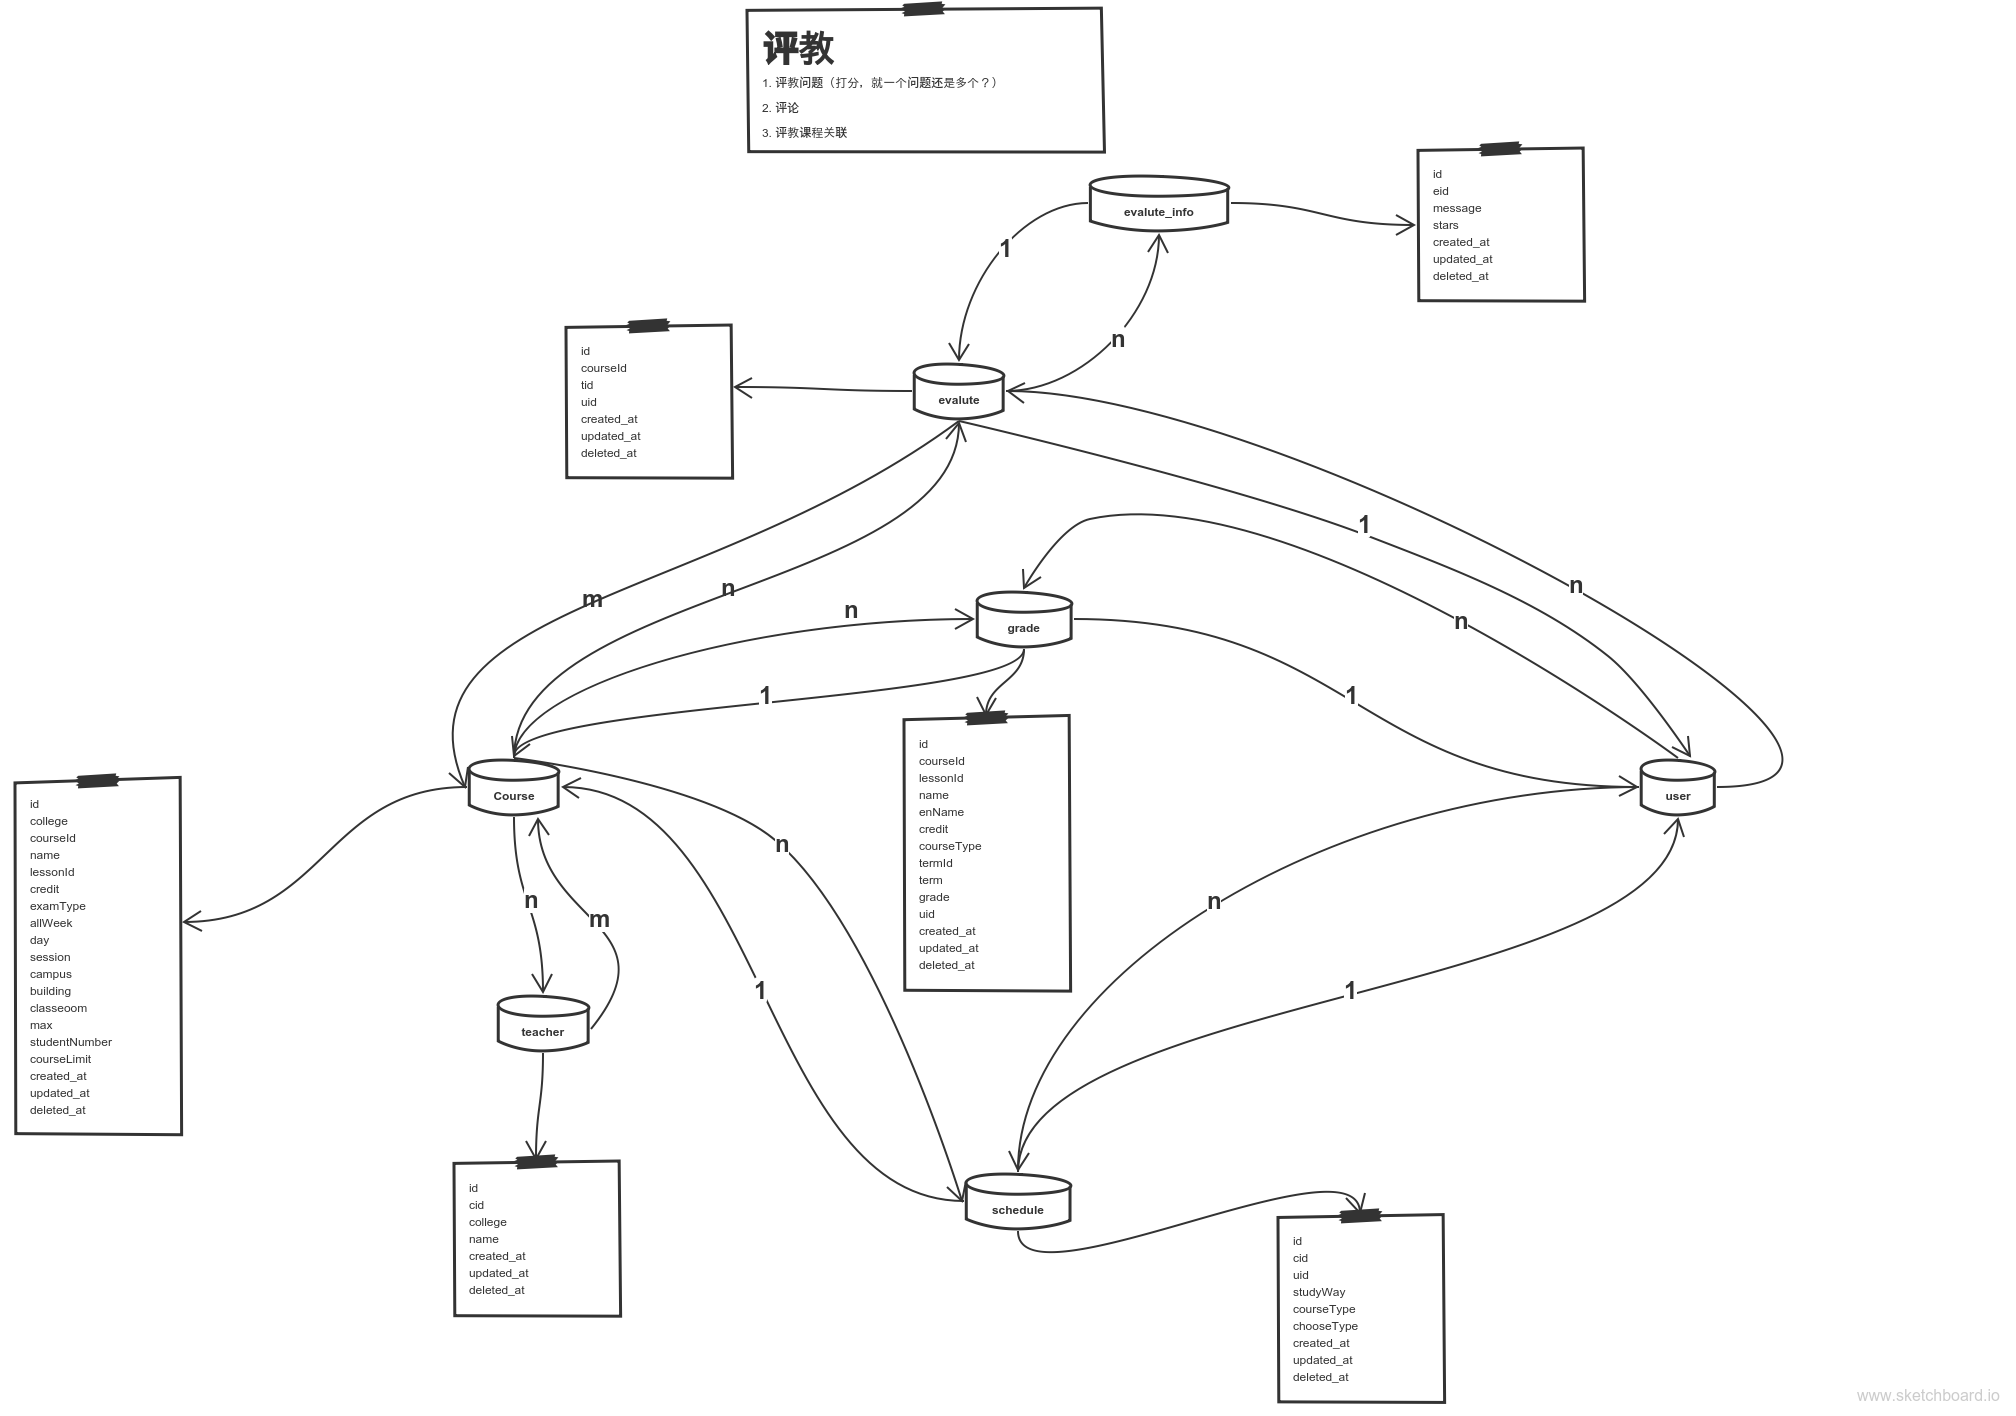
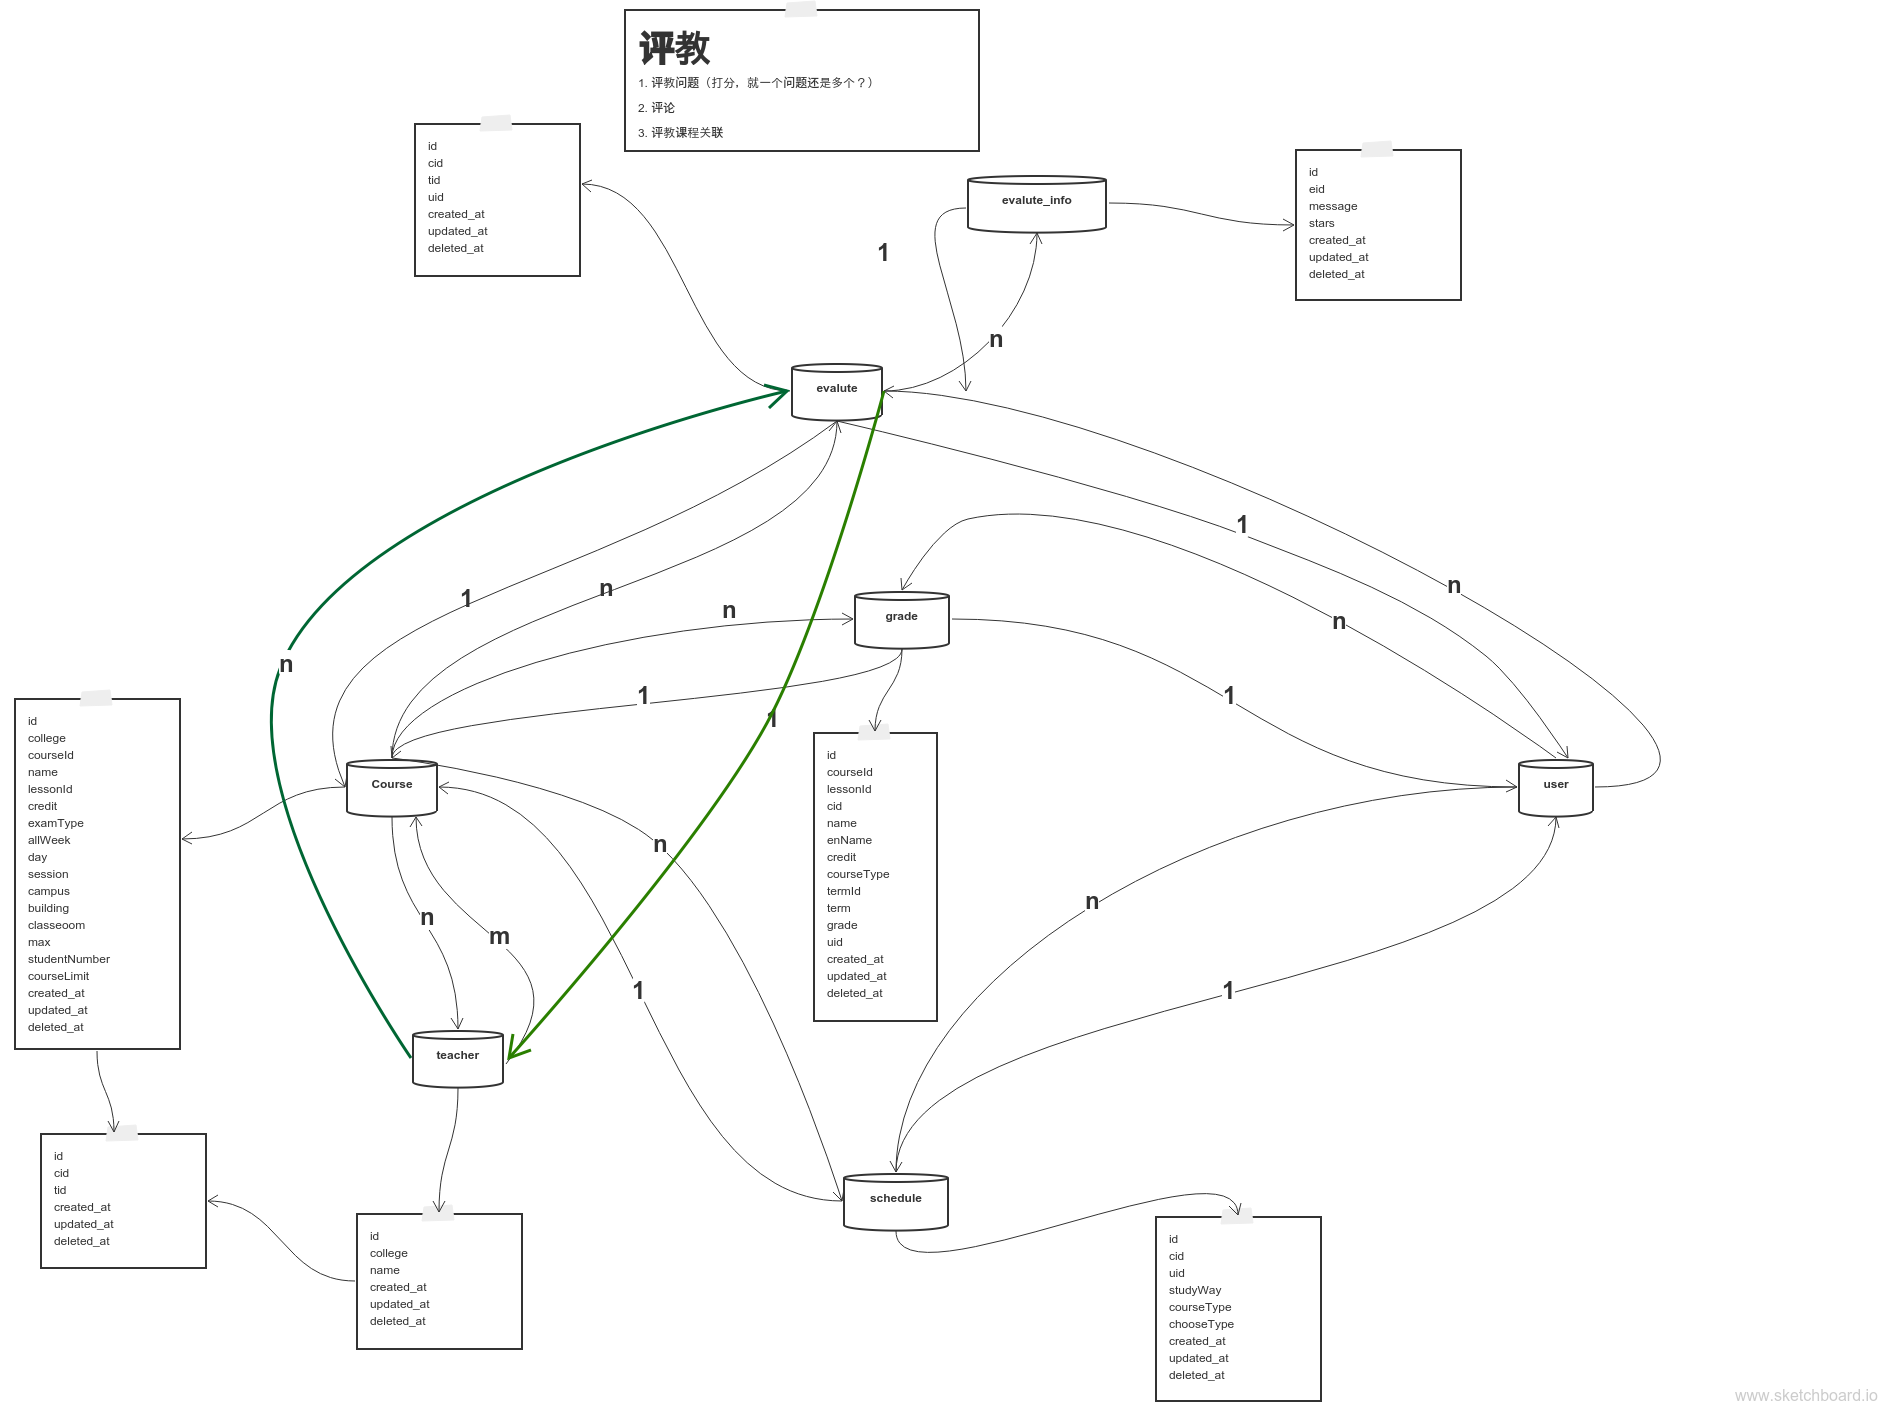
【新增】后台抓取课程、教师数据

diff --git a/app/Jobs/CourseJob.php b/app/Jobs/CourseJob.php
@@ -1,0 +1,85 @@
+<?php
+
+namespace App\Jobs;
+
+use App\Model\Course;
+use App\Model\CourseTeacher;
+use App\Model\Teacher;
+use Illuminate\Support\Facades\Cache;
+use Illuminate\Support\Facades\Log;
+use Mohuishou\Lib\ScuplusJwc;
+
+class CourseJob extends Job
+{
+
+    protected $_sid;
+    protected $_spassword;
+
+    /**
+     * CourseJob constructor.
+     * @param $course_obj 抓取课程信息的对象
+     */
+    public function __construct($sid,$spassword)
+    {
+        $this->_sid=$sid;
+        $this->_spassword=$spassword;
+    }
+
+    /**
+     * Execute the job.
+     *
+     * @return void
+     */
+    public function handle()
+    {
+        $page=Cache::pull('course_page');
+        $page || $page=0;
+        $course_obj=ScuplusJwc::create('Course',$this->_sid,$this->_spassword);
+        while (1){
+            //把当前的页码缓存，防止队列任务挂掉从头开始
+            Cache::put('course_page',$page,60*5);
+            try{
+                $data=$course_obj->getCourse([],$page,50);
+            }catch (\Exception $e){
+                Log::debug($e->getMessage());
+            }
+
+            // 当没有数据以后，退出抓取,并且清除缓存
+            if(!$data){
+                Cache::forget('course_page');
+                break;
+            }
+
+            //增加页码
+            $page++;
+
+            //将数据保存到数据库
+            $i_course=0;
+            $i_teacher=0;
+            foreach ($data as $k => $v){
+                $teacher_arr=explode(',',$v['teacher']);
+                $teacher_data['college']=$v['college'];
+                unset($v['teacher']);
+                $res_course=Course::firstOrCreate($v);
+                if($res_course){
+                    $i_course++;
+                }
+                $course_teacher_data['cid']=$res_course['id'];
+                foreach ($teacher_arr as $val){
+                    $teacher_data['name']=$val;
+                    $res_teacher=Teacher::firstOrCreate($teacher_data);
+                    $course_teacher_data['tid']=$res_teacher['id'];
+                    $res_course_teacher=CourseTeacher::firstOrCreate($course_teacher_data);
+                    if($res_course_teacher){
+                        $i_teacher++;
+                    }
+                }
+            }
+
+            Log::info( $i_course.'组课程数据入库成功！  '.$i_teacher.'组教师数据入库成功！');
+        }
+
+    }
+
+
+}

diff --git a/app/Http/routes.php b/app/Http/routes.php
@@ -38,21 +38,24 @@ $app->group(['namespace'=>'App\Http\Controllers\User','prefix'=>BASE],function (
 });
 
 /**
- * 教务处相关操作
+ * 绑定教务处
  */
-$app->group(['prefix'=>BASE.'/jwc','middleware' => 'auth'],function ($app){
+$app->group(['prefix'=>BASE.'/jwc','middleware' => 'auth'],function () use($app){
     $app->post('/bind',[
         'as'=>'jwc.bind',
         'uses'=>'App\Http\Controllers\User\UserInfoController@bindJwc'
     ]);
 
-    $app->group(['namespace'=>'App\Http\Controllers\Jwc'],function ($app){
-        $app->post('/course',[
-            'as'=>'jwc.course',
-            'uses'=>'CourseController@index'
-        ]);
-    });
+
 });
 
-
+/**
+ * 教务处相关操作
+ */
+$app->group(['prefix'=>BASE.'/jwc','middleware' => 'auth','namespace' => 'App\Http\Controllers\Jwc'], function() use ($app) {
+    $app->post('/course',[
+        'as'=>'jwc.course',
+        'uses'=>'CourseController@index'
+    ]);
+});
 

diff --git a/app/Http/Controllers/Jwc/JwcBaseController.php b/app/Http/Controllers/Jwc/JwcBaseController.php
@@ -10,9 +10,16 @@ use App\Http\Controllers\Controller;
 use Illuminate\Http\Request;
 use Mohuishou\Lib\ScuplusJwc;
 
-class JwcBaseControoler extends Controller{
+class JwcBaseController extends Controller{
 
+    /**
+     * @var string
+     */
     protected $_jwc_obj;
+
+    /**
+     * @var null|string
+     */
     protected $_jwc_name=null;
 
     public function __construct(Request $request)
@@ -24,10 +31,6 @@ class JwcBaseControoler extends Controller{
 
         //初始化要操作的教务处类，默认为评教
         $this->_jwc_name || $this->_jwc_name='Evaluate';
-        try{
-            $this->_jwc_obj=ScuplusJwc::create($this->_jwc_name,$sid,$spassword);
-        }catch (\Exception $e){
-            return $this->error(['error'=>$e]);
-        }
+        $this->_jwc_obj=ScuplusJwc::create($this->_jwc_name,$sid,$spassword);
     }
 }

diff --git a/app/Http/Controllers/Jwc/CourseController.php b/app/Http/Controllers/Jwc/CourseController.php
@@ -6,11 +6,19 @@
  * Time: 15:24
  */
 namespace App\Http\Controllers\Jwc;
-class CourseController extends JwcBaseControoler{
+
+use App\Jobs\CourseJob;
+
+class CourseController extends JwcBaseController{
     protected $_jwc_name='Course';
 
     public function index(){
-        return $this->_jwc_obj->index();
+        $res=$this->dispatch(new CourseJob($this->_request->user()->sid,decrypt($this->_request->user()->spassword)));
+        if($res){
+            return $this->success('课程信息更新任务已添加到后台队列！');
+        }
     }
+
+
 
 }

diff --git a/app/Http/Middleware/Authenticate.php b/app/Http/Middleware/Authenticate.php
@@ -36,7 +36,7 @@ class Authenticate
     public function handle($request, Closure $next, $guard = null)
     {
         if ($this->auth->guard($guard)->guest()) {
-            return response('Unauthorized.', 401);
+            return response()->json(['error'=>'认证失败！'],401);
         }
 
         return $next($request);

diff --git a/app/Model/CourseTeacher.php b/app/Model/CourseTeacher.php
@@ -1,0 +1,17 @@
+<?php
+/**
+ * Created by mohuishou<1@lailin.xyz>.
+ * User: mohuishou<1@lailin.xyz>
+ * Date: 2016/8/18 0018
+ * Time: 16:46
+ */
+namespace App\Model;
+
+class CourseTeacher extends BaseModel
+{
+    protected $table = 'course_teacher';
+
+    protected $guarded = [
+        'id'
+    ];
+}
